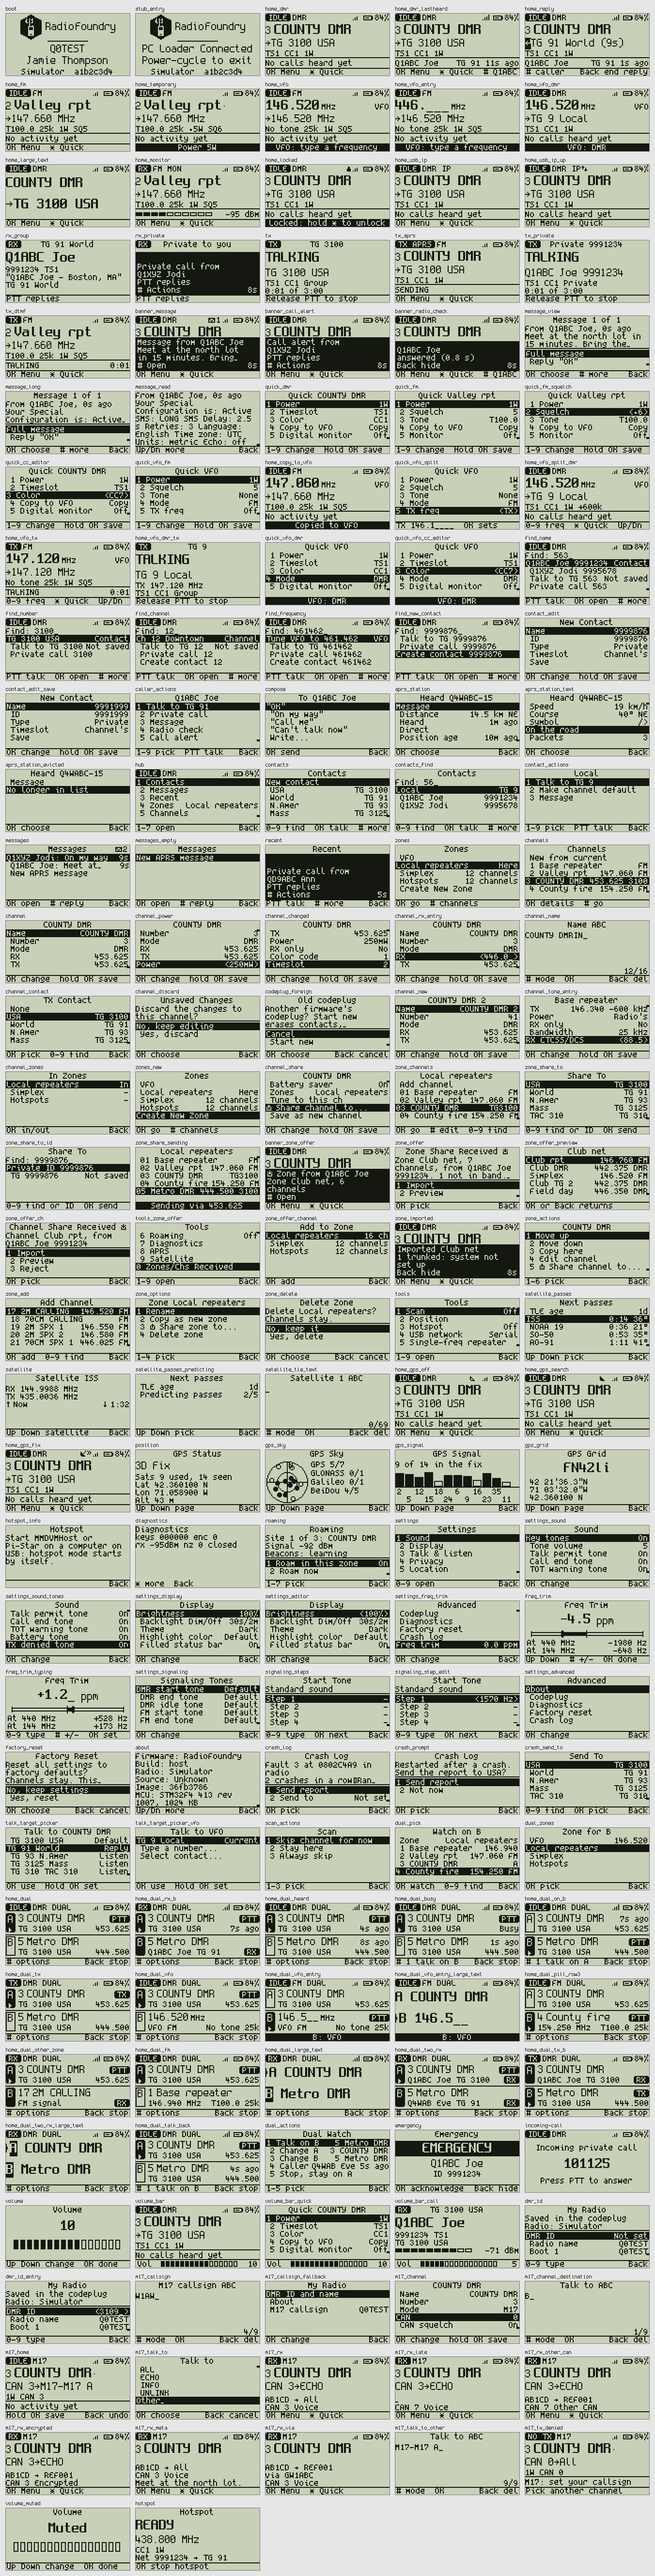
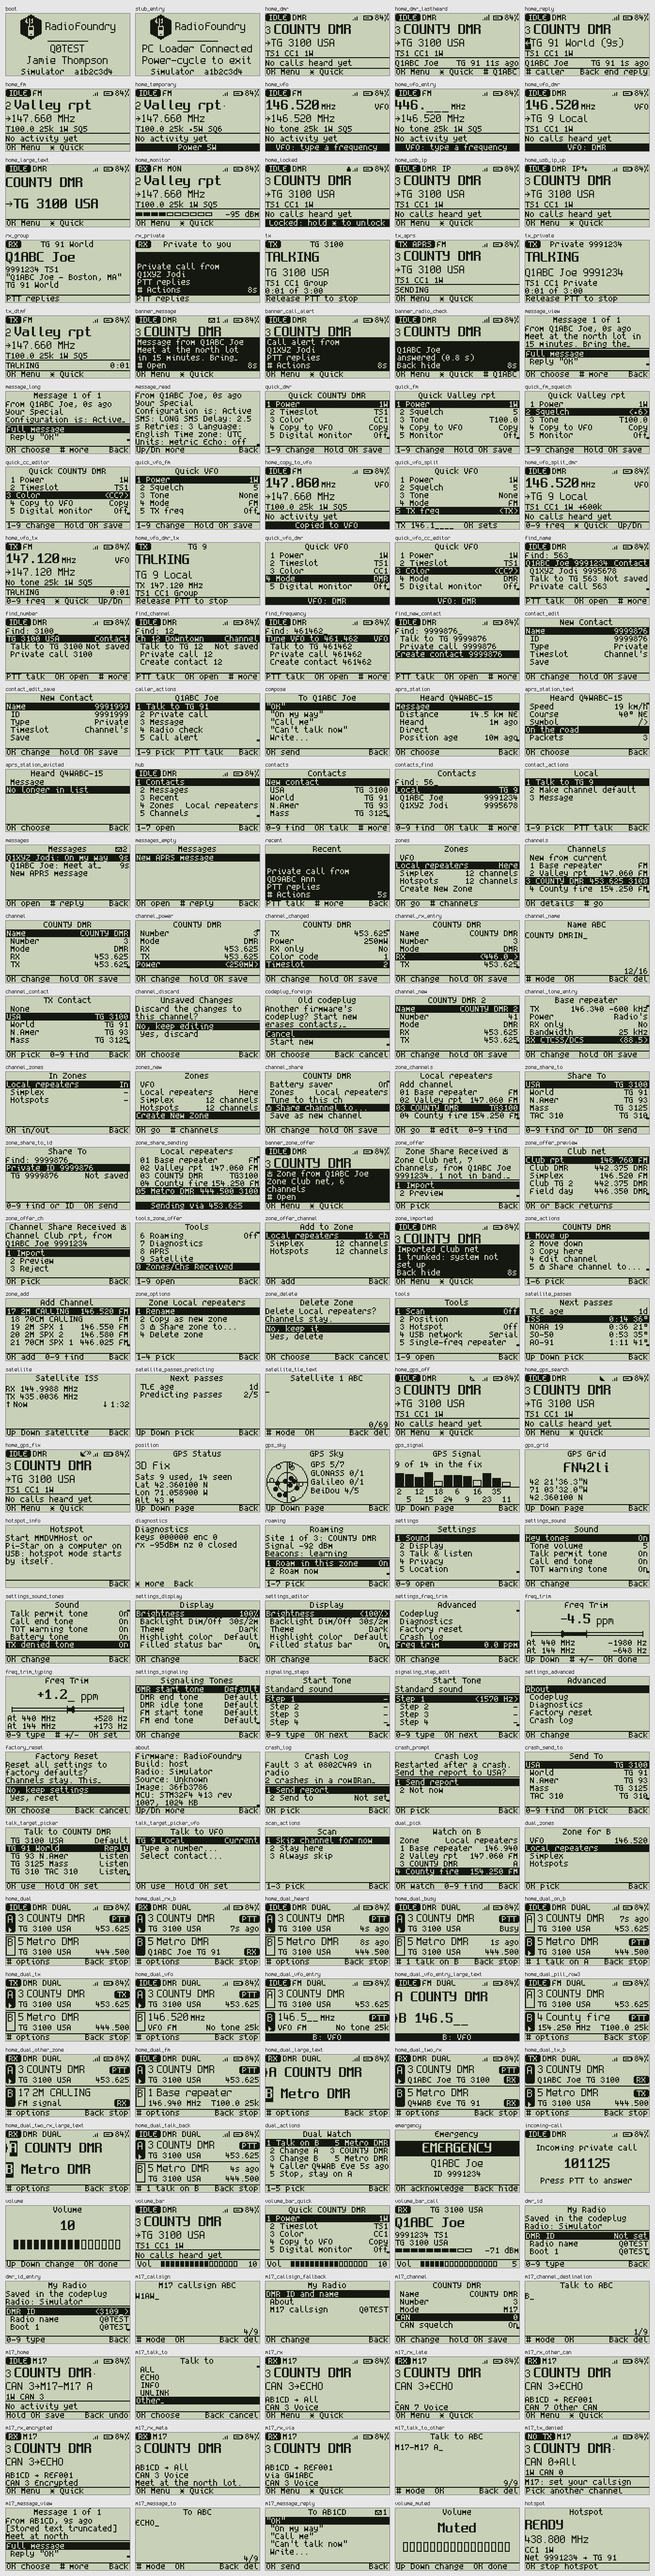
Site: add the M17 message screens to the gallery
Three new captures in every display class: an M17 message with the
cut marker and reply actions (m17_message_view), the destination
editor with the channel's default (m17_message_to), and the addressed
canned reply list (m17_message_reply). Registered in screens.json with
captions in every site language; contact sheets regenerated. No other
gallery image changed.

Checks: ui-gallery, full host suite, i18n, site catalogs and the
strict site build, doc links. The coordinator looked at every new
capture.

Built by Cursor (composer-2.5, brief 64); verified and committed by
the coordinator.

Changed region(s): [[0.4038, 0.968, 0.9941, 0.9992], [0.0, 0.968, 0.2796, 0.9992]]

diff --git a/tests/host/uiSim.c b/tests/host/uiSim.c
@@ -237,6 +237,9 @@ static const struct { const char *name, *script; } gallery[] = {
 	{ "m17_rx_via", SIM_M17_STORED_ECHO " m17rx:AB1CD,REF001,3,voice m17via:GW1ABC" },
 	{ "m17_talk_to_other", SIM_M17_STORED_ECHO " quick 8 up ok back back back back 6 long:1 long:7 1 1 6 long:1 long:7 0 2" },
 	{ "m17_tx_denied", "m17 dlmode:m17 m17deny:call" },
+	{ "m17_message_view", SIM_M17_MSG_SETUP " m17msg:AB1CD,Meet_at_north,1 wait:9000 ok 2 ok" },
+	{ "m17_message_to", SIM_M17_MSG_SETUP " ok 2 ok" },
+	{ "m17_message_reply", SIM_M17_MSG_SETUP " m17msg:AB1CD,Hello,0 wait:9000 ok 2 ctx" },
 #endif
 	{ "volume_muted", "softvol volkey down down down down down down down down" },
 	{ "hotspot", "hotspot:on" },

diff --git a/tests/host/sim/ui_sim.h b/tests/host/sim/ui_sim.h
@@ -11,6 +11,7 @@
 #include "radio/radio.h"
 
 #define SIM_M17_STORED_ECHO "m17 m17stored:3,ECHO"
+#define SIM_M17_MSG_SETUP "aprs:off m17 m17stored:3,ECHO m17txfit"
 
 // Display classes (information-architecture.md, wireframes) and key maps (7.1 - 7.5)
 typedef struct {
